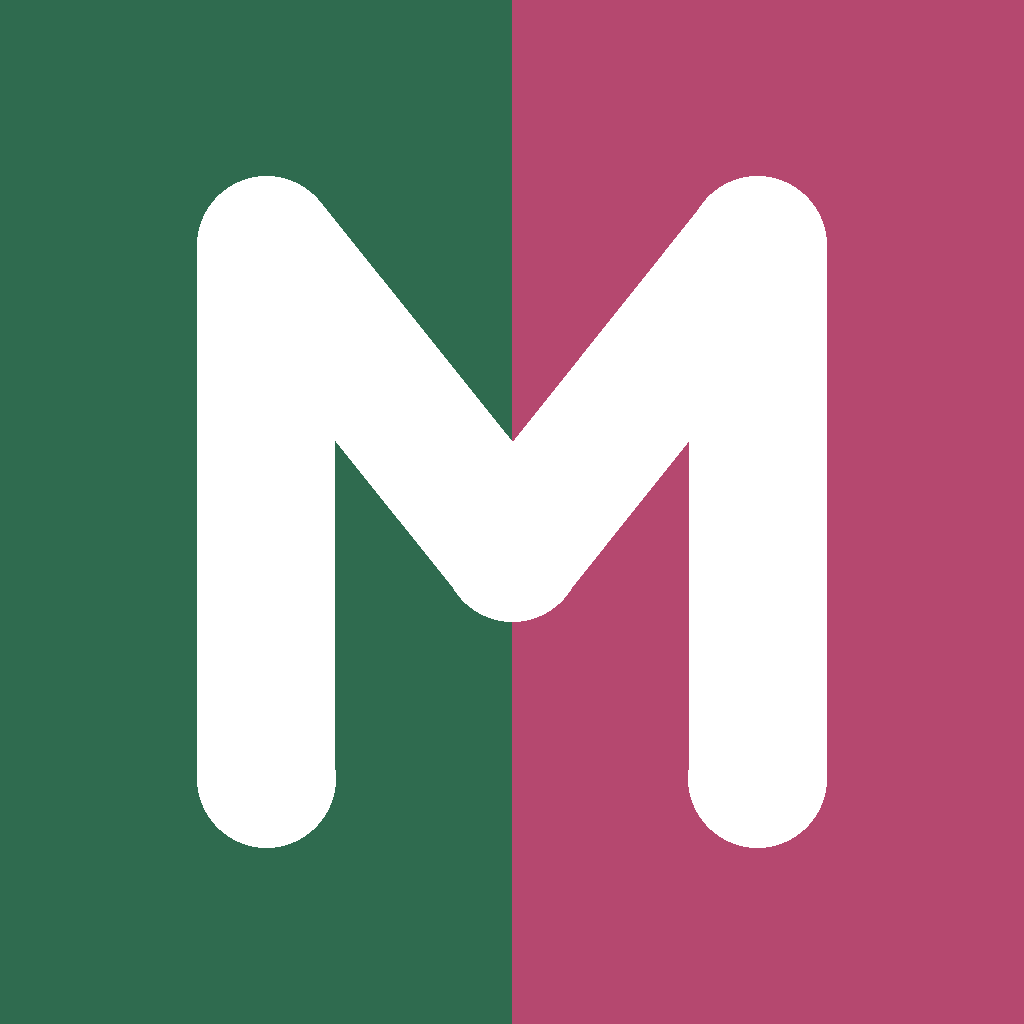
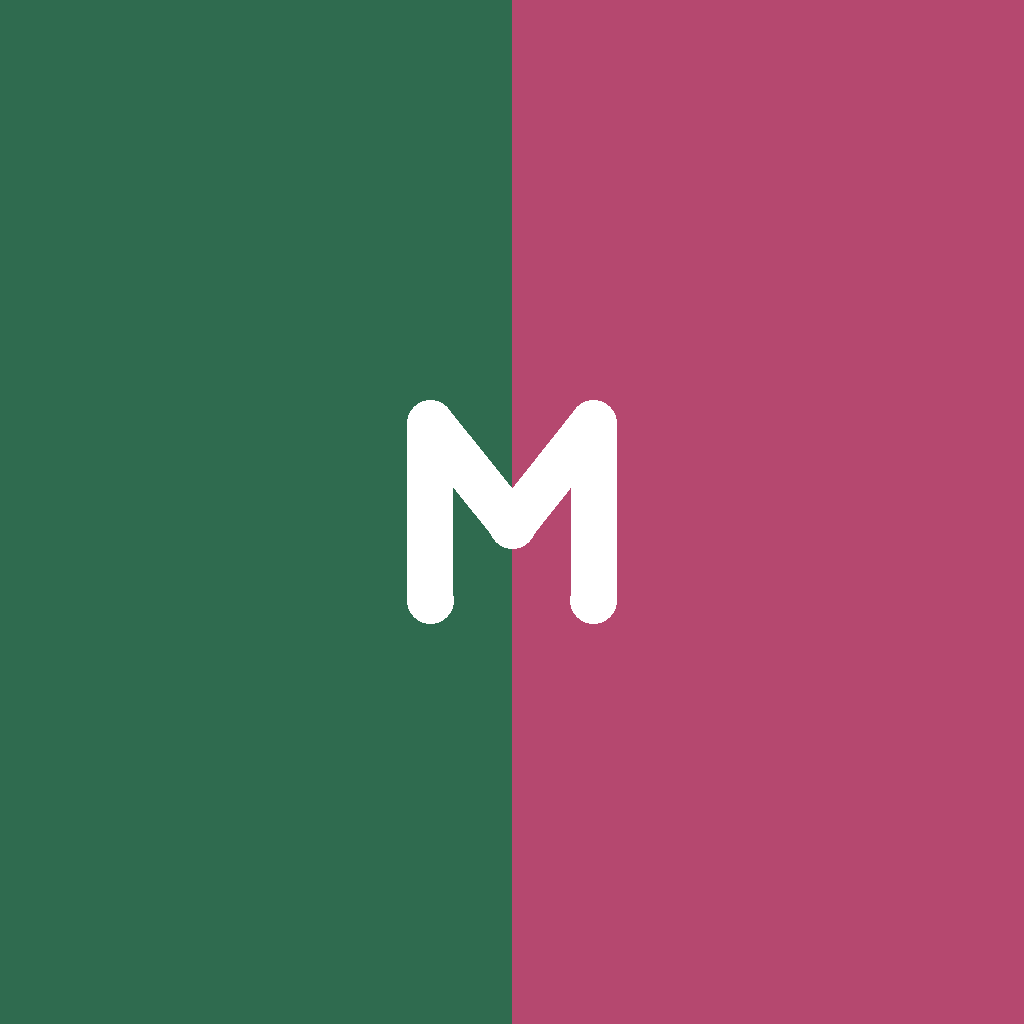
앱 아이콘의 M 글자 크기를 1/3로 축소
make_icons.py에 M_SCALE 계수 추가(중심 기준 스케일), 1/3로 설정.
캐시버스터 v=5.

Changed region(s): [[0.1875, 0.1562, 0.8125, 0.8438]]

diff --git a/about.html b/about.html
@@ -7,7 +7,7 @@
   <title>소개 · 마이웨이트, 마이러브</title>
   <meta name="description" content="자기이해·자기수용·자기돌봄을 실천하는 사람들의 커뮤니티. 몸무게 기록은 그 과정을 비추는 도구입니다." />
   <link rel="icon" type="image/svg+xml" href="./favicon.svg" />
-  <link rel="apple-touch-icon" href="./apple-touch-icon.png?v=4" />
+  <link rel="apple-touch-icon" href="./apple-touch-icon.png?v=5" />
   <link rel="manifest" href="./manifest.json" />
   <meta name="theme-color" content="#2f6b4f" />
   <link rel="stylesheet" href="./style.css" />

diff --git a/index.html b/index.html
@@ -7,7 +7,7 @@
   <title>마이웨이트, 마이러브</title>
   <meta name="description" content="자기이해, 자기수용, 자기돌봄 — 습관과 루틴으로 몸에 배게 만들어가는 사람들의 커뮤니티." />
   <link rel="icon" type="image/svg+xml" href="./favicon.svg" />
-  <link rel="apple-touch-icon" href="./apple-touch-icon.png?v=4" />
+  <link rel="apple-touch-icon" href="./apple-touch-icon.png?v=5" />
   <link rel="manifest" href="./manifest.json" />
   <meta name="theme-color" content="#2f6b4f" />
   <link rel="preconnect" href="https://fonts.googleapis.com" />

diff --git a/challenge.html b/challenge.html
@@ -7,7 +7,7 @@
   <title>챌린지 · 마이웨이트, 마이러브</title>
   <meta name="description" id="meta-desc" content="함께 지키는 데일리 체크인 챌린지" />
   <link rel="icon" type="image/svg+xml" href="./favicon.svg" />
-  <link rel="apple-touch-icon" href="./apple-touch-icon.png?v=4" />
+  <link rel="apple-touch-icon" href="./apple-touch-icon.png?v=5" />
   <link rel="manifest" href="./manifest.json" />
   <meta name="theme-color" content="#2f6b4f" />
   <link rel="stylesheet" href="./style.css" />

diff --git a/app.html b/app.html
@@ -6,7 +6,7 @@
   <meta name="color-scheme" content="light dark" />
   <title>마이웨이트, 마이러브</title>
   <link rel="icon" type="image/svg+xml" href="./favicon.svg" />
-  <link rel="apple-touch-icon" href="./apple-touch-icon.png?v=4" />
+  <link rel="apple-touch-icon" href="./apple-touch-icon.png?v=5" />
   <link rel="manifest" href="./manifest.json" />
   <meta name="theme-color" content="#2f6b4f" />
   <link rel="stylesheet" href="./style.css" />

diff --git a/scripts/make_icons.py b/scripts/make_icons.py
@@ -26,10 +26,13 @@ def make_master() -> Image.Image:
     d.rectangle([S // 2, 0, S, S], fill=ROSE)
 
     # 굵은 M (둥근 이음새) — 0..100 좌표계를 S로 스케일, 폰트 없이 폴리라인으로 직접 그림
+    # M_SCALE: 중심(50,50) 기준으로 축소/확대 (1.0 = 원래 크기)
+    M_SCALE = 1 / 3
     def p(x, y):
-        return (x / 100 * S, y / 100 * S)
+        cx, cy = 50 + (x - 50) * M_SCALE, 50 + (y - 50) * M_SCALE
+        return (cx / 100 * S, cy / 100 * S)
     pts = [p(26, 76), p(26, 24), p(50, 54), p(74, 24), p(74, 76)]
-    width = int(0.135 * S)
+    width = int(0.135 * M_SCALE * S)
     d.line(pts, fill=WHITE, width=width, joint="curve")
     r = width / 2
     for x, y in pts:
